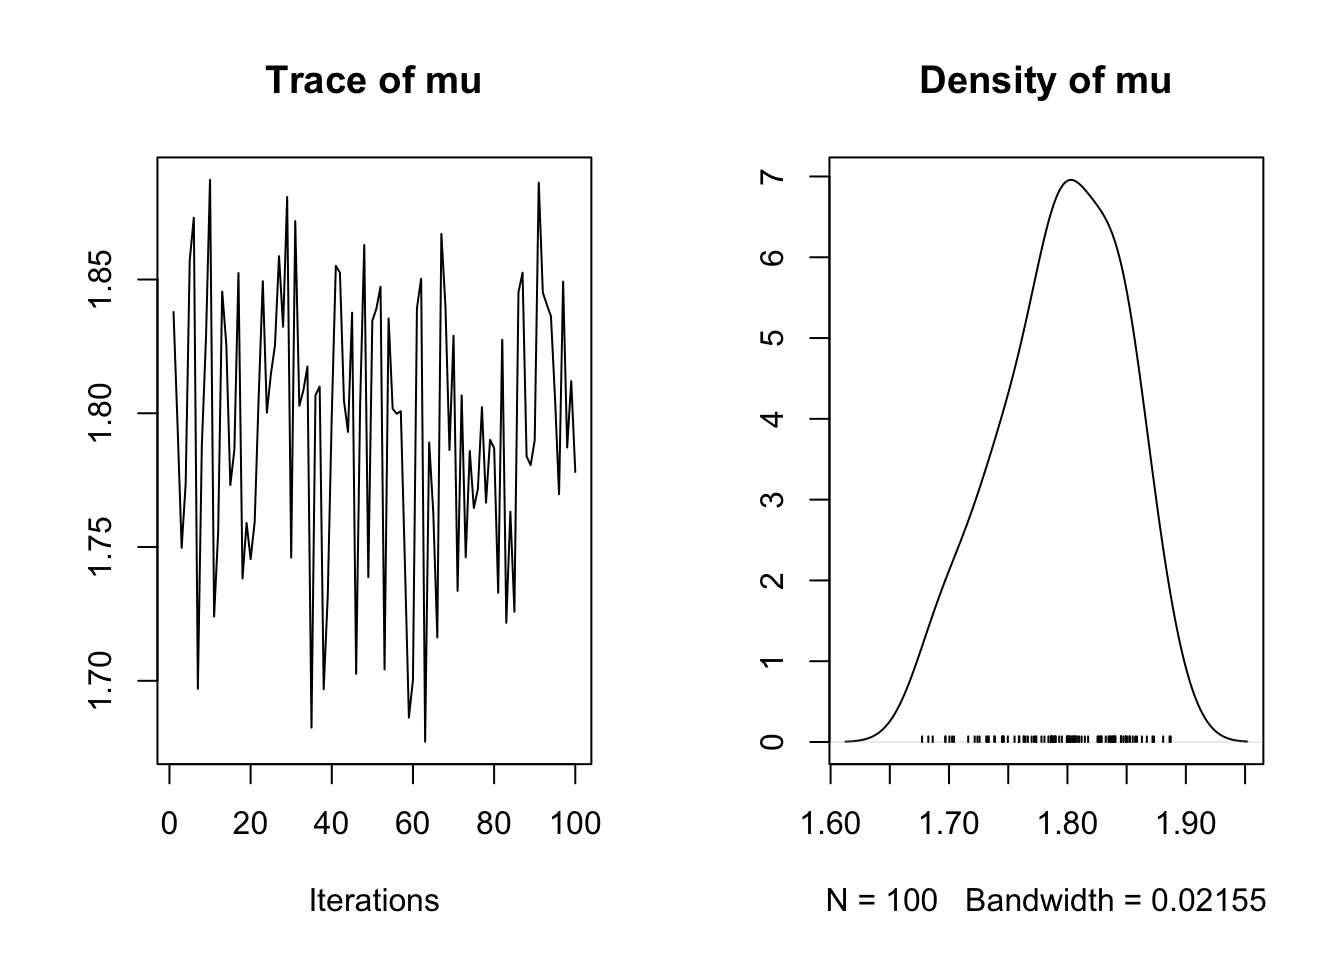
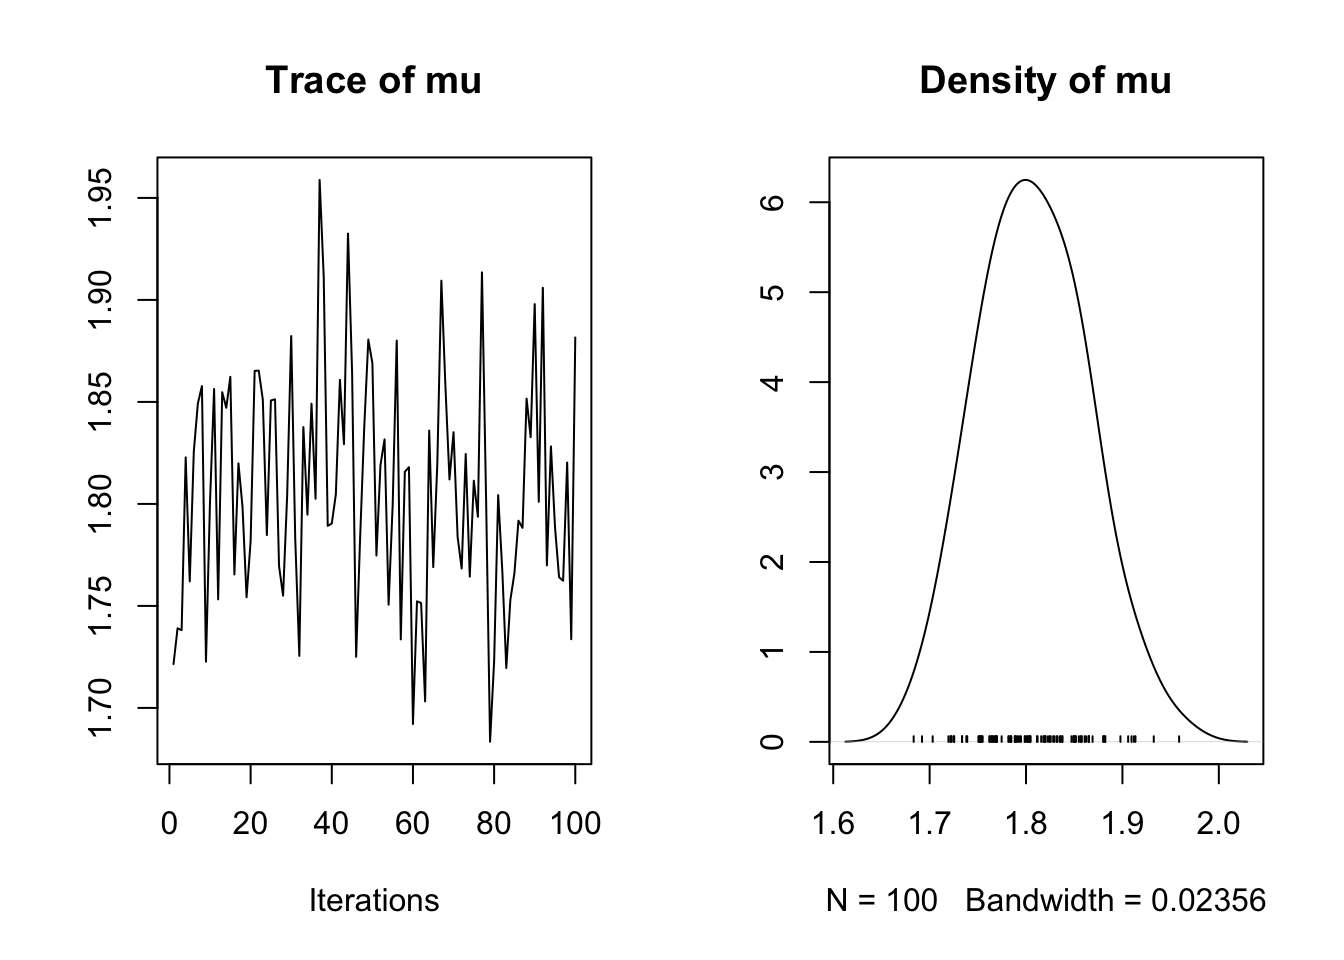
test

diff --git a/docs/VB_Bayes_activity2.html b/docs/VB_Bayes_activity2.html
@@ -463,12 +463,12 @@ window.Quarto = {
 <div class="sourceCode cell-code" id="cb30"><pre class="sourceCode r code-with-copy"><code class="sourceCode r"><span id="cb30-1"><a href="#cb30-1" aria-hidden="true" tabindex="-1"></a><span class="fu">head</span>(mcmc.out)</span></code><button title="Copy to Clipboard" class="code-copy-button"><i class="bi"></i></button></pre></div>
 <div class="cell-output cell-output-stdout">
 <pre><code>           mu
-[1,] 1.837849
-[2,] 1.795299
-[3,] 1.749679
-[4,] 1.773738
-[5,] 1.857183
-[6,] 1.873105</code></pre>
+[1,] 1.721479
+[2,] 1.739015
+[3,] 1.738126
+[4,] 1.822810
+[5,] 1.762023
+[6,] 1.825605</code></pre>
 </div>
 </div>
 <div class="cell" data-layout-align="center">
@@ -539,12 +539,12 @@ window.Quarto = {
 <div class="sourceCode cell-code" id="cb47"><pre class="sourceCode r code-with-copy"><code class="sourceCode r"><span id="cb47-1"><a href="#cb47-1" aria-hidden="true" tabindex="-1"></a><span class="fu">head</span>(mcmc.out<span class="sc">$</span>chain1)</span></code><button title="Copy to Clipboard" class="code-copy-button"><i class="bi"></i></button></pre></div>
 <div class="cell-output cell-output-stdout">
 <pre><code>           mu
-[1,] 1.740237
-[2,] 1.744142
-[3,] 1.798731
-[4,] 1.730875
-[5,] 1.797718
-[6,] 1.821325</code></pre>
+[1,] 1.767302
+[2,] 1.831650
+[3,] 1.838704
+[4,] 1.807694
+[5,] 1.822508
+[6,] 1.857017</code></pre>
 </div>
 </div>
 <div class="cell" data-layout-align="center">
@@ -585,12 +585,12 @@ Sample size per chain = 10000
    plus standard error of the mean:
 
           Mean             SD       Naive SE Time-series SE 
-     1.8037784      0.0526633      0.0005266      0.0005266 
+     1.8039445      0.0523320      0.0005233      0.0005233 
 
 2. Quantiles for each variable:
 
  2.5%   25%   50%   75% 97.5% 
-1.700 1.768 1.805 1.840 1.906 </code></pre>
+1.701 1.768 1.804 1.840 1.905 </code></pre>
 </div>
 </div>
 <p>Let’s compare these draws to what we got with our analytic solution:</p>
@@ -746,12 +746,12 @@ Sample size per chain = 10000
 <div class="sourceCode cell-code" id="cb79"><pre class="sourceCode r code-with-copy"><code class="sourceCode r"><span id="cb79-1"><a href="#cb79-1" aria-hidden="true" tabindex="-1"></a><span class="fu">head</span>(mcmc.out2<span class="sc">$</span>chain1)</span></code><button title="Copy to Clipboard" class="code-copy-button"><i class="bi"></i></button></pre></div>
 <div class="cell-output cell-output-stdout">
 <pre><code>           mu         s2      tau
-[1,] 1.780547 0.07294448 13.70906
-[2,] 1.893613 0.07294448 13.70906
-[3,] 1.891907 0.07294448 13.70906
-[4,] 1.751797 0.07294448 13.70906
-[5,] 1.856018 0.01541587 64.86822
-[6,] 1.856018 0.01541587 64.86822</code></pre>
+[1,] 1.808496 0.01109125 90.16114
+[2,] 1.794911 0.01148990 87.03293
+[3,] 1.794911 0.01148990 87.03293
+[4,] 1.794911 0.01020260 98.01426
+[5,] 1.794911 0.01020260 98.01426
+[6,] 1.772257 0.01403102 71.27067</code></pre>
 </div>
 <div class="sourceCode cell-code" id="cb81"><pre class="sourceCode r code-with-copy"><code class="sourceCode r"><span id="cb81-1"><a href="#cb81-1" aria-hidden="true" tabindex="-1"></a>samp2<span class="ot">&lt;-</span><span class="fu">as.mcmc</span>(mcmc.out2<span class="sc">$</span>chain1)</span></code><button title="Copy to Clipboard" class="code-copy-button"><i class="bi"></i></button></pre></div>
 </div>
@@ -778,16 +778,16 @@ Sample size per chain = 10000
    plus standard error of the mean:
 
         Mean       SD  Naive SE Time-series SE
-mu   1.80328  0.05491 0.0005491      0.0012003
-s2   0.02613  0.01759 0.0001759      0.0004426
-tau 50.96602 25.40299 0.2540299      0.6159970
+mu   1.80637  0.05235 0.0005235      0.0011577
+s2   0.02543  0.01657 0.0001657      0.0003911
+tau 51.96635 25.83741 0.2583741      0.6767042
 
 2. Quantiles for each variable:
 
-        2.5%      25%      50%      75%     97.5%
-mu   1.69296  1.76974  1.80426  1.83619   1.91068
-s2   0.00898  0.01532  0.02133  0.03084   0.07275
-tau 13.74603 32.42538 46.88235 65.26183 111.36455</code></pre>
+        2.5%      25%    50%      75%     97.5%
+mu   1.70426  1.77240  1.806  1.83893   1.91792
+s2   0.00896  0.01499  0.021  0.03055   0.06666
+tau 15.00182 32.73685 47.618 66.69136 111.60536</code></pre>
 </div>
 </div>
 <p>Now we plot each with their priors:</p>

diff --git a/docs/Stats_review.html b/docs/Stats_review.html
@@ -341,7 +341,7 @@ window.Quarto = {
 <li>discrete (numbers of items or successes)</li>
 <li>continuous (heights, times, weights)</li>
 </ul>
-<p>We usually use capital letters – e.g.&nbsp;<span class="math inline">X</span>, <span class="math inline">Y</span>, sometimes with bold or with subscripts – to denote the RVs. In contrast we use lower case letters, e.g.&nbsp;<span class="math inline">x</span>, <span class="math inline">y</span>, <span class="math inline">k</span>, to denote the values that the RV takes. For instance, lets say that the heights of the woman at Virginia Tech are the RV, <span class="math inline">X</span>, and <span class="math inline">X</span> has a normal distribution with mean 62 inches and variance 6<span class="math inline">^2</span>, i.e., <span class="math inline">X \sim \mathrm{N}(62,6^2)</span> distribution. Say we then observe the heights of 3 individuals drawn from this distribution – we would write this as: <span class="math inline">x=(</span> 61.4, 64.6, 65.9 <span class="math inline">)</span>.</p>
+<p>We usually use capital letters – e.g.&nbsp;<span class="math inline">X</span>, <span class="math inline">Y</span>, sometimes with bold or with subscripts – to denote the RVs. In contrast we use lower case letters, e.g.&nbsp;<span class="math inline">x</span>, <span class="math inline">y</span>, <span class="math inline">k</span>, to denote the values that the RV takes. For instance, lets say that the heights of the woman at Virginia Tech are the RV, <span class="math inline">X</span>, and <span class="math inline">X</span> has a normal distribution with mean 62 inches and variance 6<span class="math inline">^2</span>, i.e., <span class="math inline">X \sim \mathrm{N}(62,6^2)</span> distribution. Say we then observe the heights of 3 individuals drawn from this distribution – we would write this as: <span class="math inline">x=(</span> 71, 65, 64.2 <span class="math inline">)</span>.</p>
 <p><br> <br> </p>
 </section>
 <section id="probability-distributions" class="level1">
@@ -565,7 +565,7 @@ f(x)=\frac{1}{\sqrt{2\pi\sigma^2}}\exp{\left(-\frac{(x-\mu)^2}{2\sigma^2}\right)
 <div class="cell">
 <div class="sourceCode cell-code" id="cb3"><pre class="sourceCode r code-with-copy"><code class="sourceCode r"><span id="cb3-1"><a href="#cb3-1" aria-hidden="true" tabindex="-1"></a><span class="fu">rnorm</span>(<span class="dv">3</span>, <span class="at">mean=</span><span class="dv">0</span>, <span class="at">sd=</span><span class="dv">1</span>) <span class="do">## random draws</span></span></code><button title="Copy to Clipboard" class="code-copy-button"><i class="bi"></i></button></pre></div>
 <div class="cell-output cell-output-stdout">
-<pre><code>[1] -1.1874625  0.2498877 -0.5415891</code></pre>
+<pre><code>[1] -1.3560686  1.5075647  0.8829592</code></pre>
 </div>
 </div>
 <div class="cell">

diff --git a/docs/data_wrangling.html b/docs/data_wrangling.html
@@ -2174,8 +2174,8 @@ Tip
 <div class="cell">
 <div class="sourceCode cell-code" id="cb91"><pre class="sourceCode r code-with-copy"><code class="sourceCode r"><span id="cb91-1"><a href="#cb91-1" aria-hidden="true" tabindex="-1"></a>MySample</span></code><button title="Copy to Clipboard" class="code-copy-button"><i class="bi"></i></button></pre></div>
 <div class="cell-output cell-output-stdout">
-<pre><code> [1] -0.2800563  0.7255168  0.3231858  2.3768466 -1.3418357  0.8537609
- [7] -1.9871676  1.2799198  1.6561873 -0.1572611</code></pre>
+<pre><code> [1]  0.2559906  0.6002950 -0.1991398 -0.0603272 -0.9000662 -0.2149816
+ [7] -1.0039066  1.4176326  1.8460470  0.9415813</code></pre>
 </div>
 </div>
 <div class="cell">
